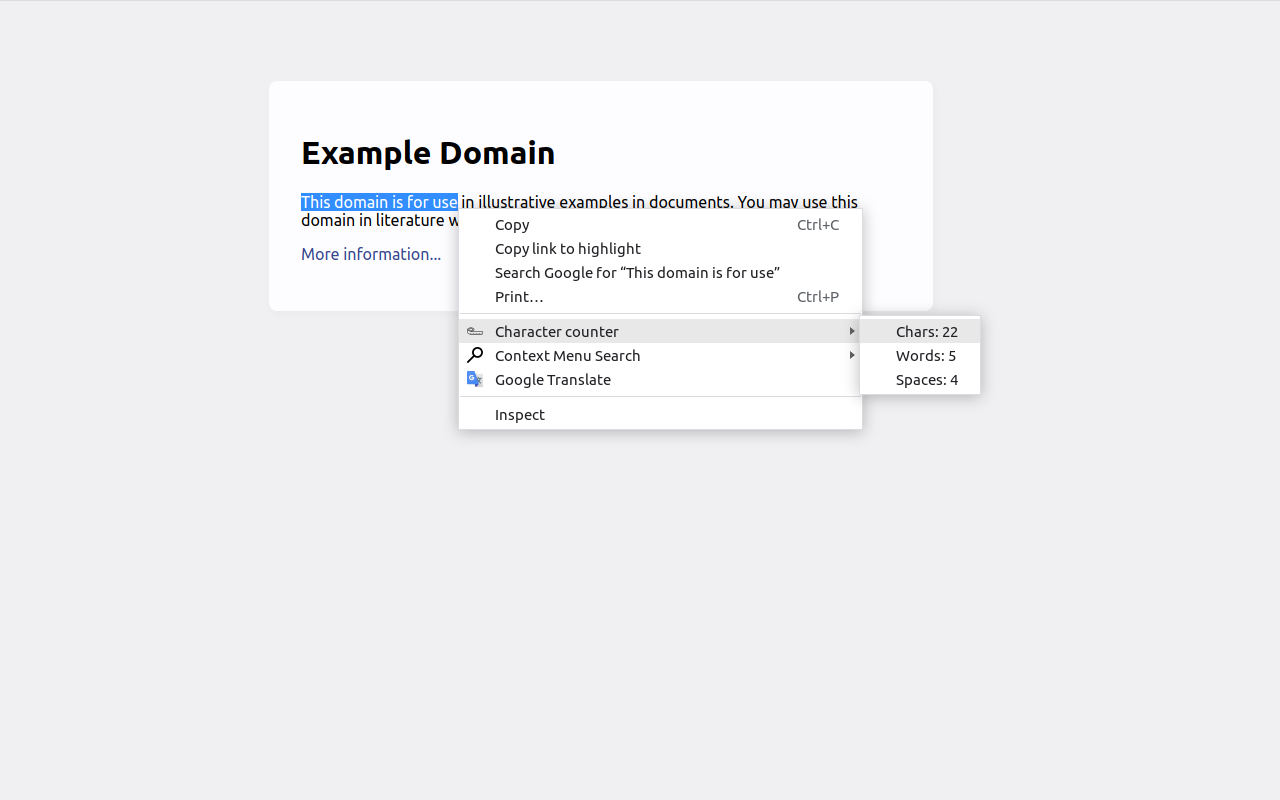
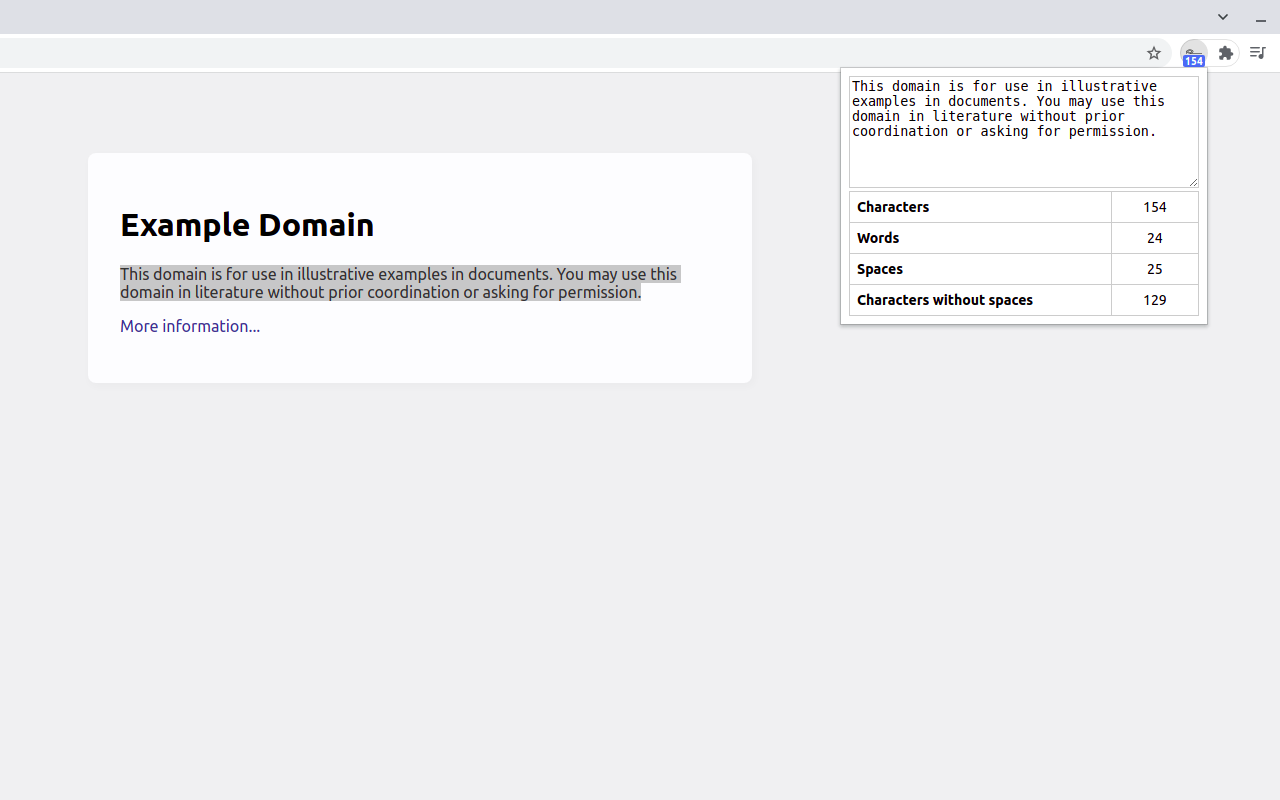
new logic and UI

diff --git a/js/popup.js b/js/popup.js
@@ -1,0 +1,43 @@
+;'use strict';
+
+/* global chrome */
+
+window.addEventListener('DOMContentLoaded', () => {
+  // https://coderedirect.com/questions/261024/button-in-popup-that-get-selected-text-chrome-extension
+  chrome.tabs.query({currentWindow: true, active: true}, tabs => {
+    chrome.tabs.sendMessage(tabs[0].id, {'method': 'getSelection'}, response => {
+      // https://stackoverflow.com/a/69587523/4223982
+      const selectedText = (chrome.runtime.lastError || !response) ? '' :  response.selectedText;
+
+      const fieldSelectedText = document.getElementById('field-selected-text');
+      const fieldCharacters = document.getElementById('field-characters');
+      const fieldWords = document.getElementById('field-words');
+      const fieldSpaces = document.getElementById('field-spaces');
+      const fieldCharactersWithoutSpaces = document.getElementById('field-characters-without-spaces');
+
+      fieldSelectedText.addEventListener('input', event => countEntitiesAndSetValues(event.target.value));
+
+      countEntitiesAndSetValues(selectedText);
+
+      function countEntitiesAndSetValues(selectedText)
+      {
+        fieldSelectedText.value = selectedText;
+
+        fieldCharacters.textContent = '' + selectedText.length;
+
+        let numberOfWords = 0;
+        if (selectedText.trim().length) {
+          numberOfWords = selectedText.split(/\s+/g).filter(word => word.length);
+          numberOfWords = numberOfWords.length;
+        }
+        fieldWords.textContent = '' + numberOfWords;
+
+        let numberOfSpaces = selectedText.match(/\s/g);
+        numberOfSpaces = numberOfSpaces ? numberOfSpaces.length : 0;
+        fieldSpaces.textContent = '' + numberOfSpaces;
+
+        fieldCharactersWithoutSpaces.textContent = '' + (selectedText.length - numberOfSpaces);
+      }
+    });
+  });
+});

diff --git a/html/popup.html b/html/popup.html
@@ -1,0 +1,32 @@
+<!DOCTYPE html>
+<html lang="en">
+<head>
+  <meta charset="utf-8">
+  <title>Character Counter</title>
+  <link rel="stylesheet" href="../css/popup.css">
+  <script src="../js/popup.js"></script>
+</head>
+<body>
+  <textarea id="field-selected-text"></textarea>
+  <table>
+    <tbody>
+      <tr>
+        <th>Characters</th>
+        <td id="field-characters"></td>
+      </tr>
+      <tr>
+        <th>Words</th>
+        <td id="field-words"></td>
+      </tr>
+      <tr>
+        <th>Spaces</th>
+        <td id="field-spaces"></td>
+      </tr>
+      <tr>
+        <th>Characters without spaces</th>
+        <td id="field-characters-without-spaces"></td>
+      </tr>
+    </tbody>
+  </table>
+</body>
+</html>

diff --git a/js/content-script.js b/js/content-script.js
@@ -2,4 +2,10 @@
 
 /* global chrome */
 
-document.addEventListener('mouseup', () => chrome.runtime.sendMessage(document.getSelection().toString()));
+document.addEventListener('selectionchange', () => chrome.runtime.sendMessage(document.getSelection().toString()));
+
+chrome.runtime.onMessage.addListener((request, sender, sendResponse) => {
+  if (request.method === 'getSelection') {
+    sendResponse({selectedText: document.getSelection().toString()});
+  }
+});

diff --git a/css/popup.css b/css/popup.css
@@ -1,0 +1,35 @@
+@charset "utf-8";
+
+* {
+  box-sizing: border-box;
+}
+
+body {
+  font-size: 14px;
+}
+
+textarea {
+  border: 1px solid #ccc;
+  height: 7rem;
+  width: 100%;
+  outline: 0;
+  resize: vertical;
+}
+
+table {
+  border: 1px solid #ccc;
+  border-collapse: collapse;
+  width: 350px;
+}
+
+th {
+  border: 1px solid #ccc;
+  width: 75%;
+  padding: 7px;
+  text-align: left;
+}
+
+td {
+  border: 1px solid #ccc;
+  text-align: center;
+}

diff --git a/service-worker.js b/service-worker.js
@@ -1,0 +1,7 @@
+;'use strict';
+
+/* global chrome */
+
+chrome.runtime.onMessage.addListener(
+  selectedText => chrome.action.setBadgeText({text: '' + (selectedText.length || '')})
+);
